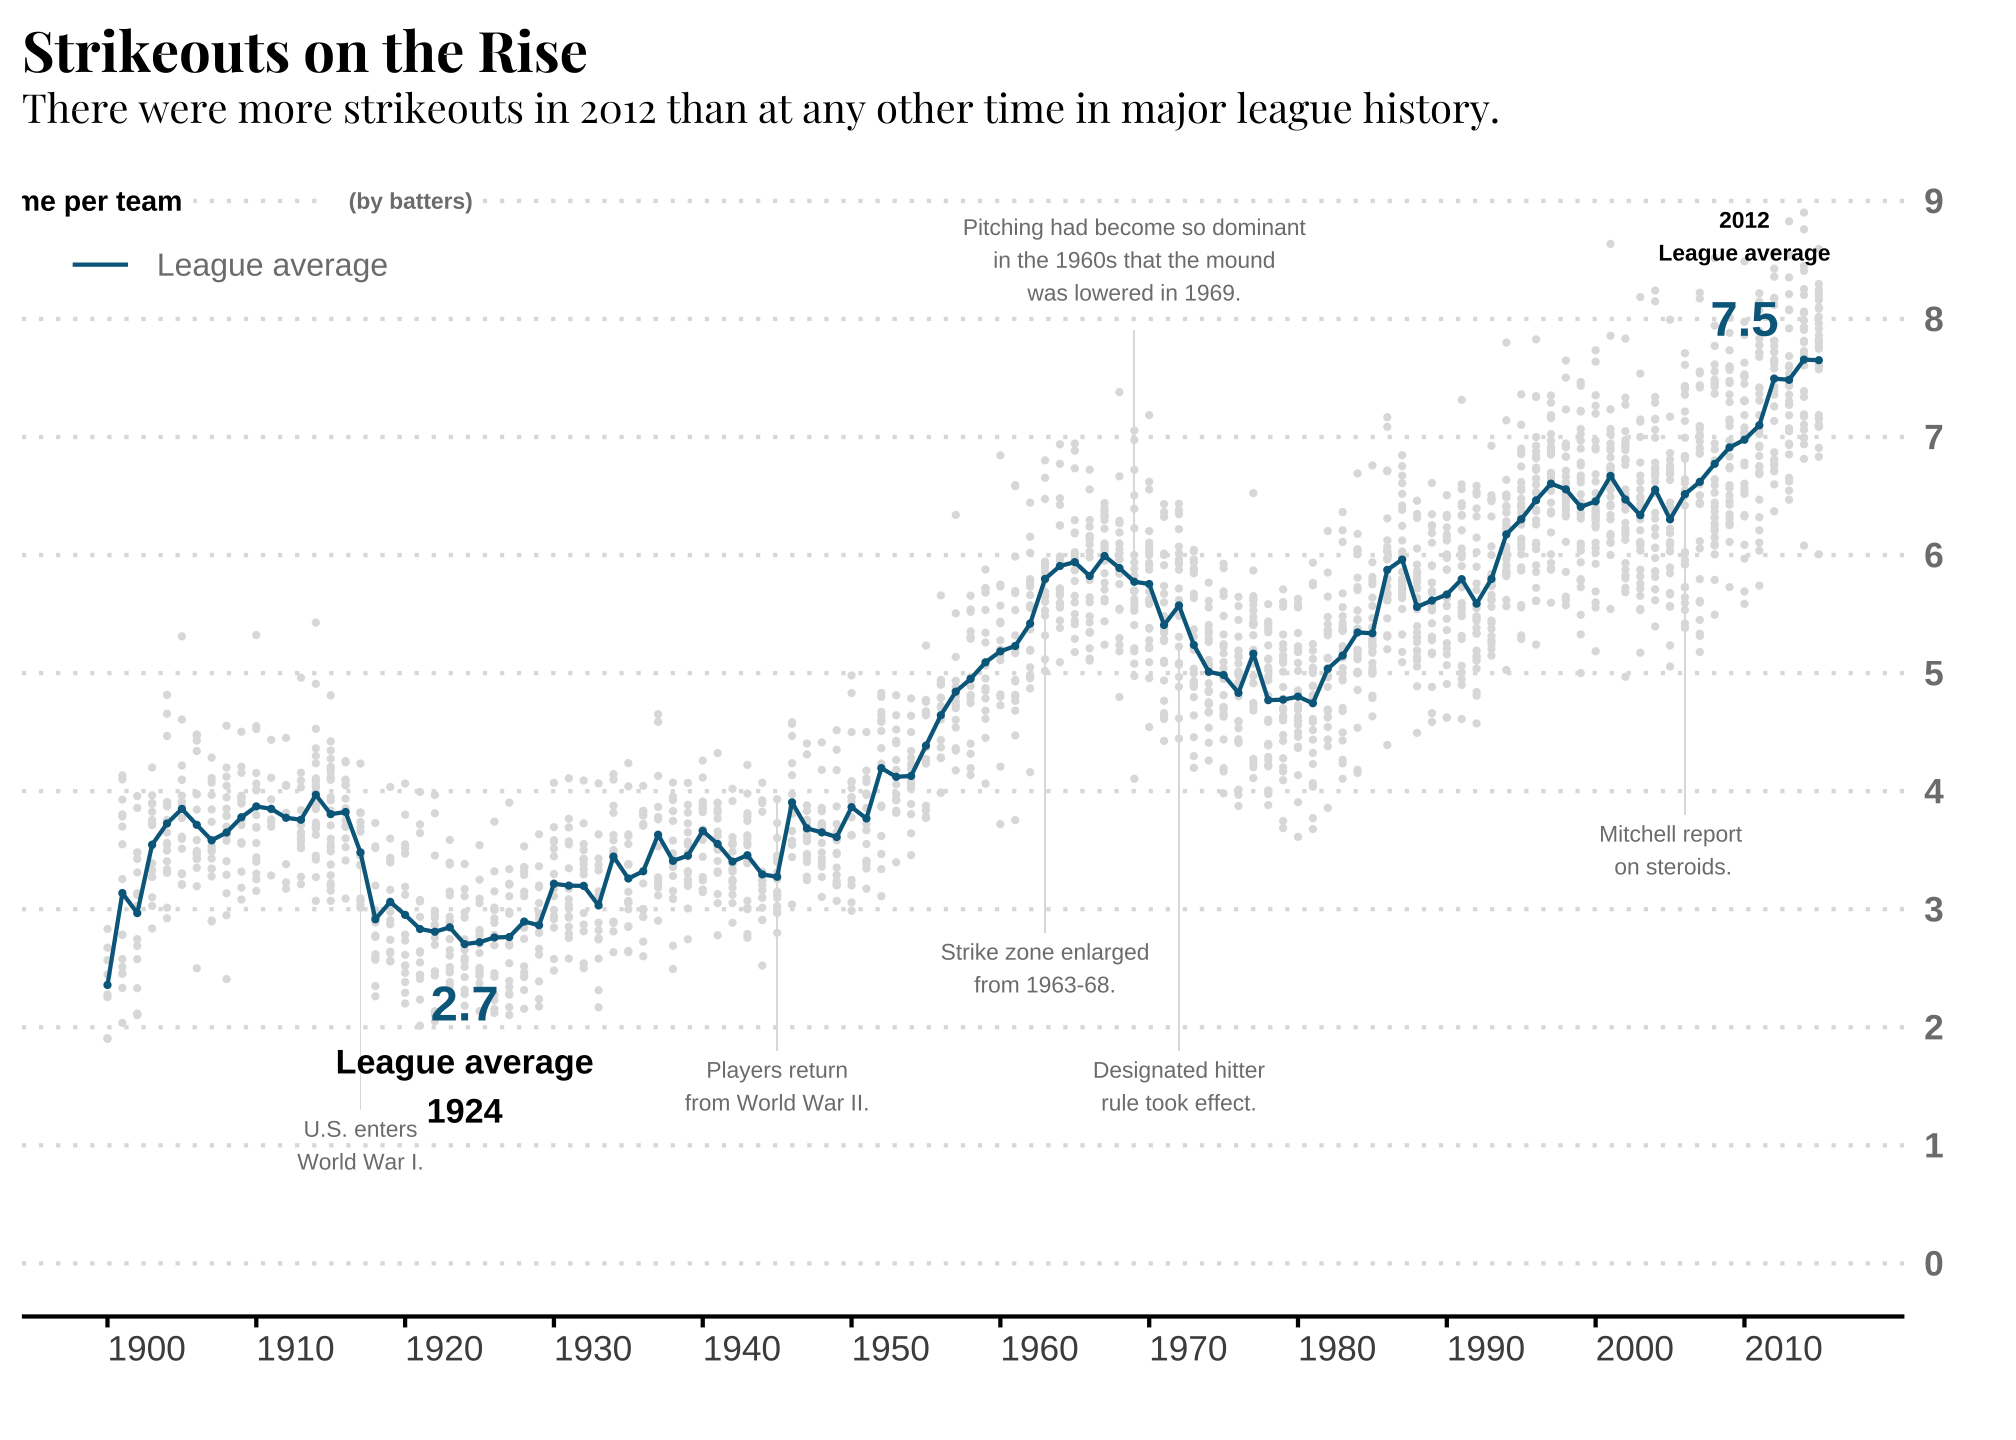
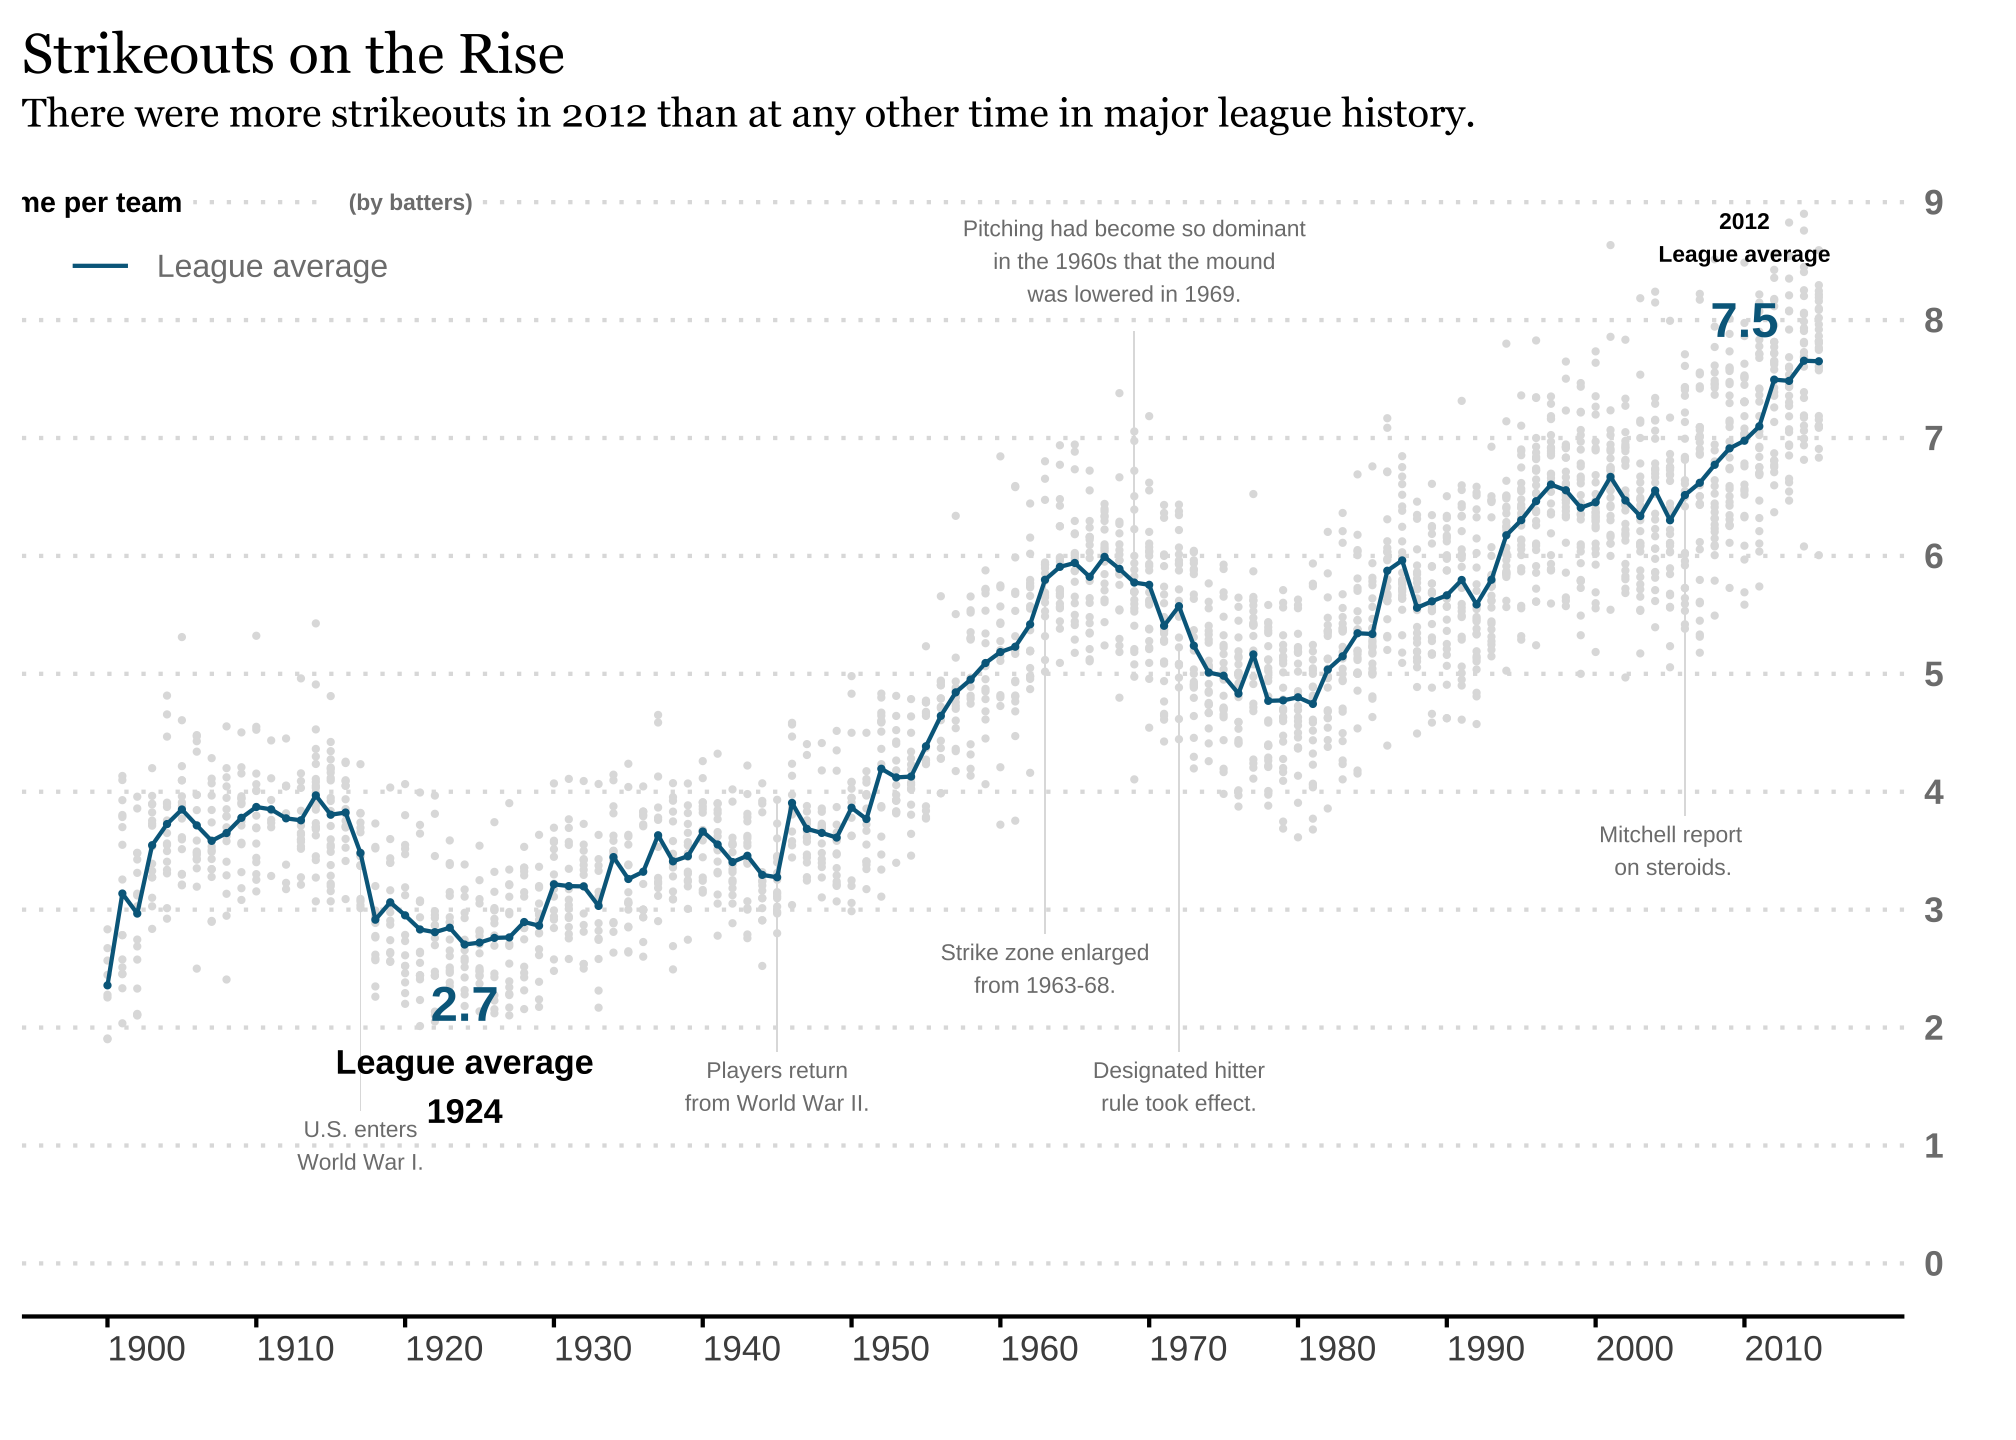
edp693e

diff --git a/content/assignment/05-assignment-sols.html b/content/assignment/05-assignment-sols.html
@@ -164,7 +164,7 @@ library(magick)
 library(fs)
 library(showtext)
 font_add_google(&quot;Libre Franklin&quot;, &quot;libre&quot;)
-font_add_google(&quot;Playfair Display&quot;, &quot;playfair&quot;)
+font_add_google(&quot;Georgia Display&quot;, &quot;Georgia&quot;)
 font_add(&quot;Arial&quot;, &quot;/Library/Fonts/Supplemental/Arial.ttf&quot;)
 showtext_auto()</code></pre>
 </div>
@@ -469,13 +469,13 @@ showtext_auto()</code></pre>
                      position = &quot;right&quot;
 ) +
   theme_minimal() +
-  theme(plot.title = element_text(family = &quot;playfair&quot;,
+  theme(plot.title = element_text(family = &quot;Georgia&quot;,
                                   face = &quot;bold&quot;,
                                   size = 14, 
                                   color = &quot;#000000&quot;, 
                                   margin = margin(b = 0), 
                                   vjust = 0),
-        plot.subtitle = element_text(family = &quot;playfair&quot;,
+        plot.subtitle = element_text(family = &quot;Georgia&quot;,
                                      size = 10, 
                                      color = &quot;#000000&quot;, 
                                      margin = margin(b = 10), 
